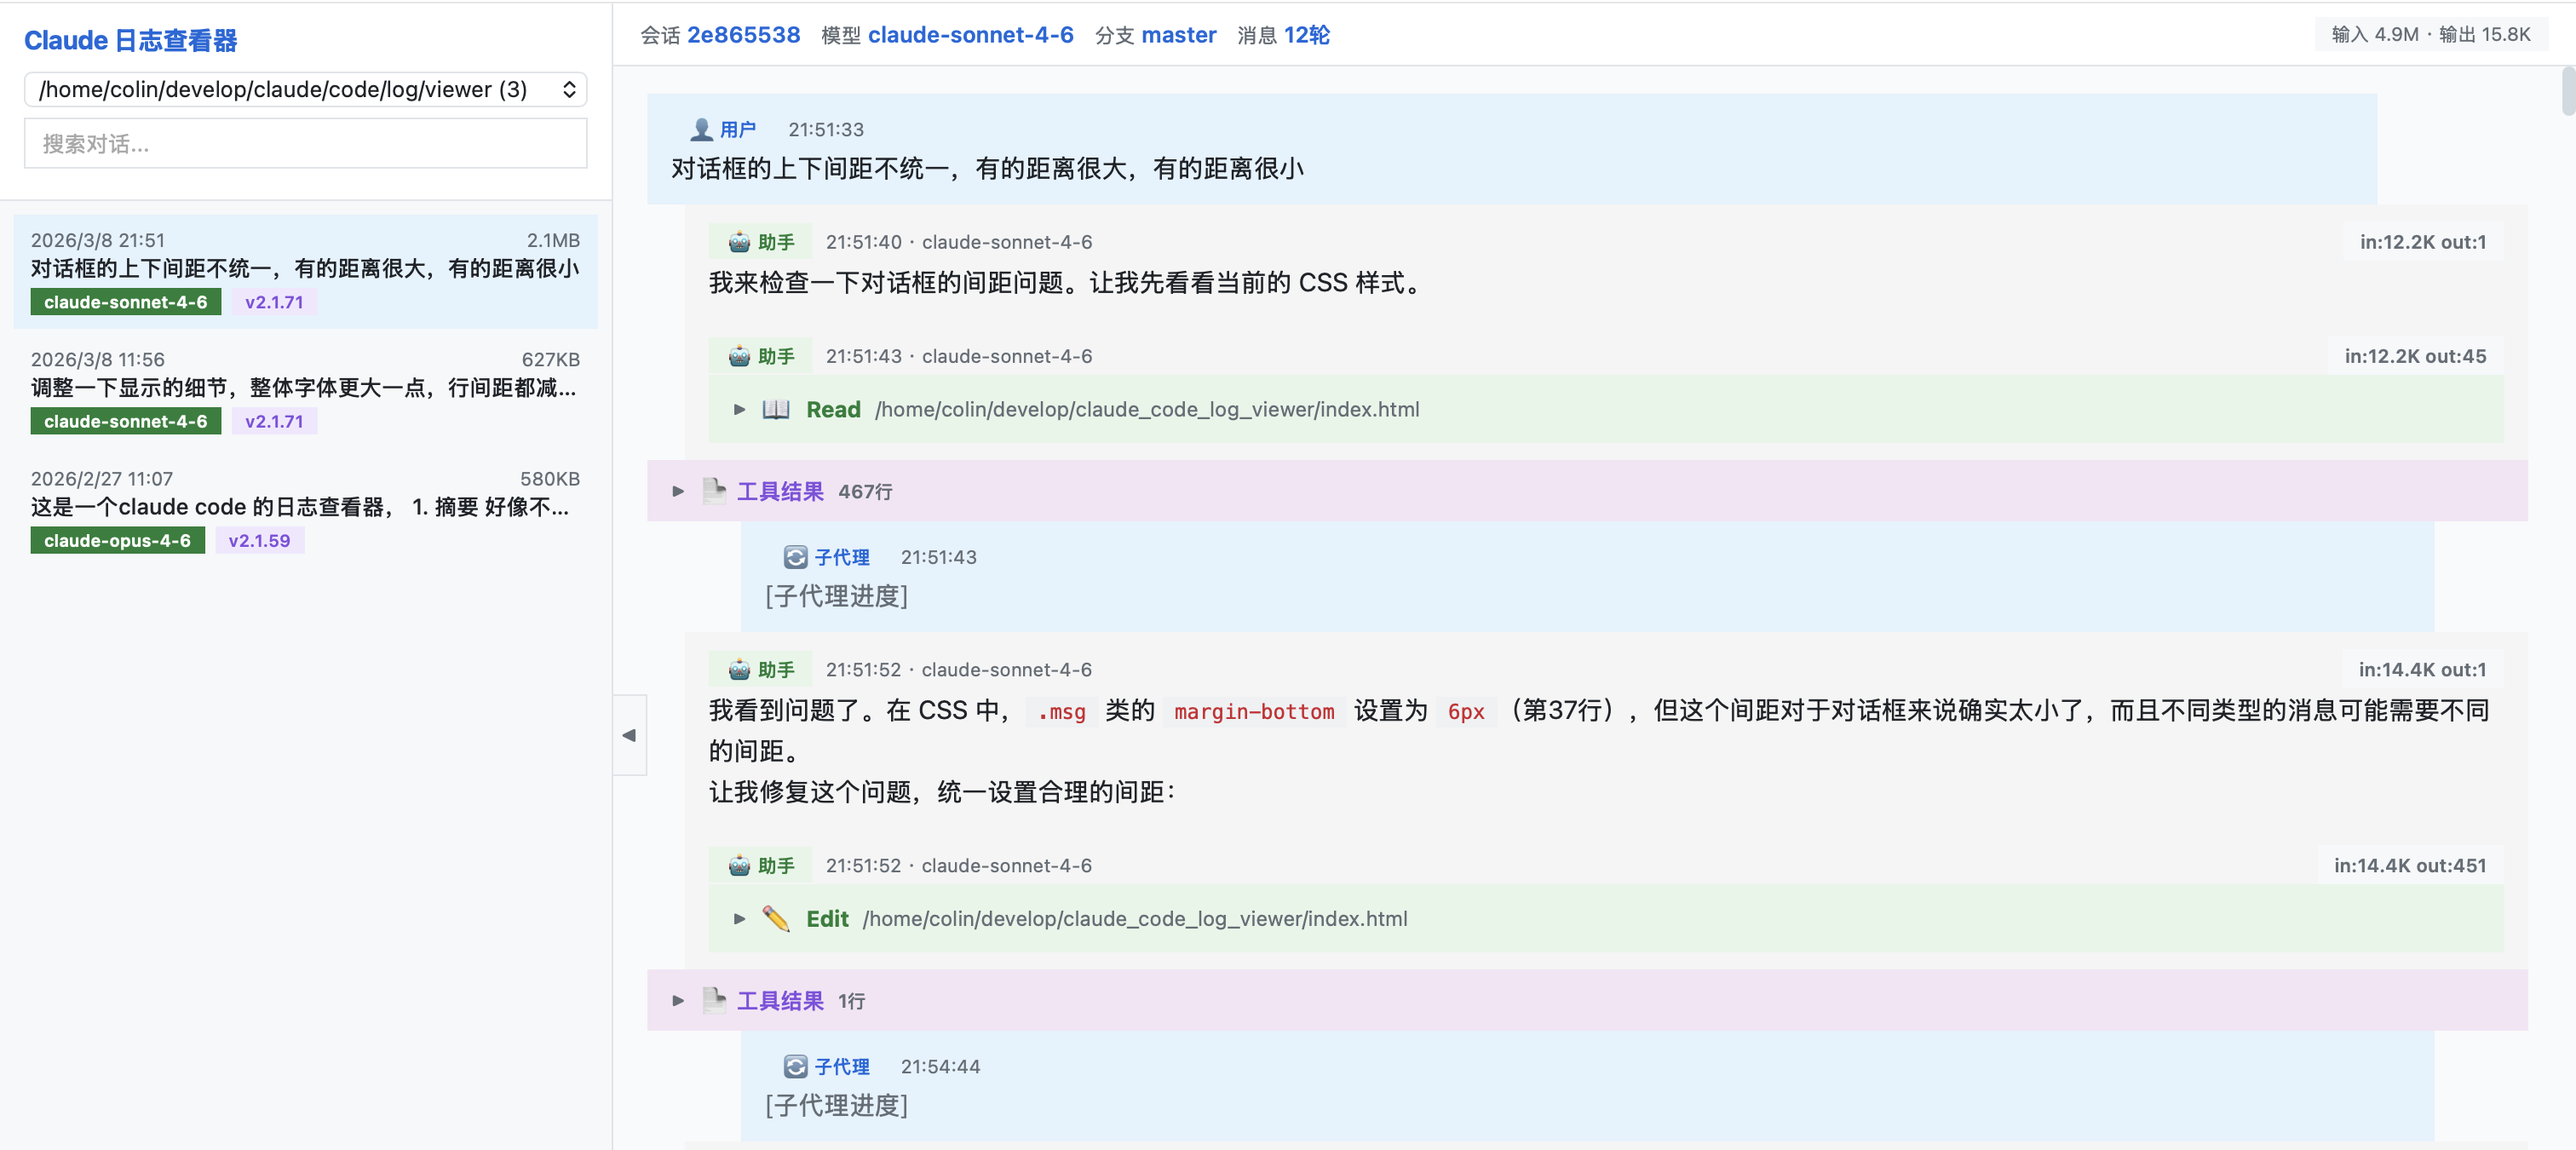
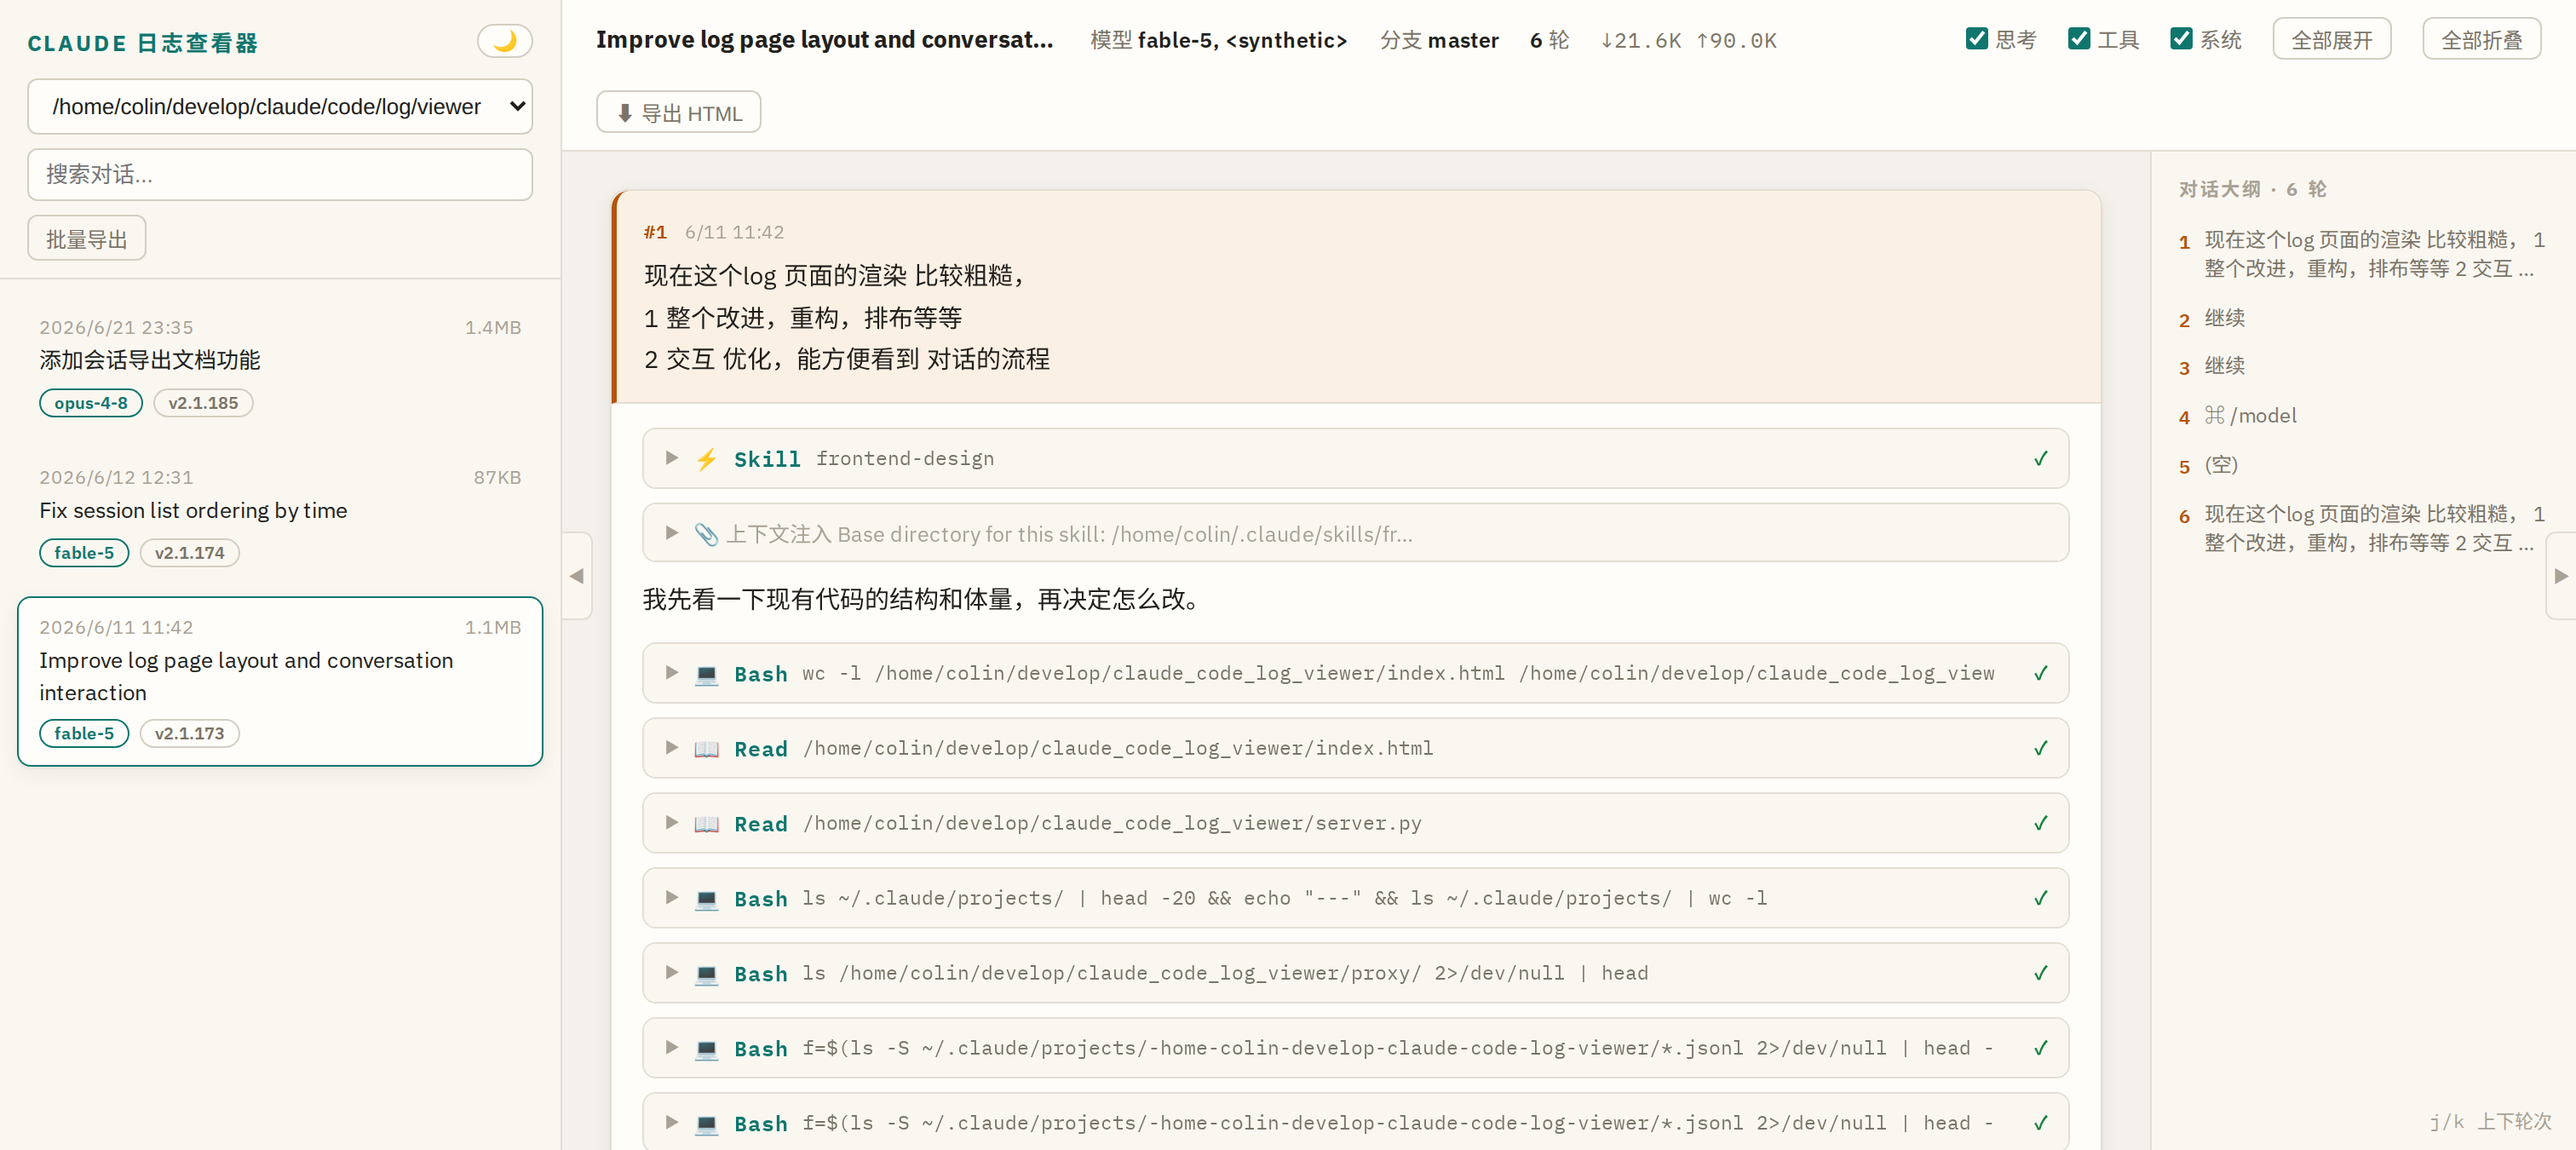
Update readme.

diff --git a/README.md b/README.md
@@ -1,30 +1,115 @@
-# Claude Code 日志查看器
+# Claude Code Log Viewer · Claude Code 日志查看器
 
-可视化分析 Claude Code 对话日志的本地 Web 工具。
+> A zero-dependency local web tool to browse, read, and export your Claude Code conversation logs.
+>
+> 一个零依赖的本地 Web 工具，用于浏览、阅读并导出 Claude Code 的对话日志。
 
-![alt text](image.png)
+**English** · [中文说明](#中文说明)
 
-## 启动
+![screenshot](image.png)
+
+---
+
+## English
+
+### Overview
+
+Claude Code stores every conversation as a `.jsonl` file under `~/.claude/projects/`. Those files are great for machines and painful for humans. This tool reads them in place and turns each session into a clean, turn-by-turn reading view in your browser — and lets you **export any session (or a batch of them) as a self-contained HTML file you can read offline forever**.
+
+No build step, no package manager, no database. Just Python 3 and a single HTML file.
+
+### Features
+
+- **Auto-discovery** — scans every project under `~/.claude/projects/` and lists its sessions.
+- **Session list** — reverse-chronological, showing date, size, model, and CLI version; instant search across title, preview, filename, and model.
+- **Turn-based reading view** — every real user prompt starts a turn card; the assistant's replies, thinking, tool calls, system events, and summaries are grouped beneath it.
+- **Everything is inspectable** — thinking blocks, tool calls paired with their results, and long outputs are collapsible. Bash renders terminal-style, JSON is colorized, Markdown is rich-rendered, and code is syntax-highlighted.
+- **Large tool outputs** — `persisted-output` results load their full content on demand.
+- **Navigation** — an outline panel with click-to-jump, scroll-spy highlighting, and `j` / `k` keyboard movement.
+- **Session metadata** — model(s), Git branch, turn count, and token usage in the header.
+- **Light / dark theme**, remembered across visits.
+- **Export to offline HTML** — single session or batch ZIP (see below).
+
+### Quick Start
 
 ```bash
-cd log-viewer
-python3 server.py        # 默认端口 8899
-python3 server.py 9000   # 自定义端口
+python3 server.py          # default port 8999
+python3 server.py 9000     # custom port
 ```
 
-浏览器打开 `http://localhost:8899`
+Then open **http://localhost:8999** and pick a conversation from the sidebar.
 
-## 功能
+### Export — offline & self-contained
 
-- 自动扫描 `~/.claude/projects/` 下所有项目的对话日志
-- 侧边栏按时间倒序列出对话，显示日期、大小、模型、版本
-- 支持按关键词搜索对话内容、文件名、模型名
-- 对话详情展示：用户消息（蓝色）、助手回复（白色）、摘要（黄色）
-- 思考过程、工具调用、执行结果均可折叠/展开
-- Bash 命令以终端风格渲染，JSON 彩色高亮，Markdown 富文本渲染
-- 大文件工具结果（persisted-output）支持点击按钮异步加载完整内容
-- 顶部显示会话元数据：模型、Git 分支、对话轮数、Token 用量
+Both export paths produce HTML that opens with **no internet and no this-tool**: all CSS, the small interaction scripts (collapse / theme / outline), and even large *persisted* tool outputs are inlined. There are **zero CDN references** in the output.
 
-## 依赖
+- **Single conversation → one HTML file.** Open a session and click **"⬇ 导出 HTML"** in the header. You get one `.html` named after the conversation title.
+- **Batch → a ZIP of HTML files.** Click **"批量导出"** in the sidebar to enter selection mode, tick the sessions you want (or **"全选"** to select all), then **"导出选中"** to download a single ZIP — one offline HTML per session. The ZIP is assembled in pure JavaScript, so this stays dependency-free too.
 
-仅需 Python 3，无第三方依赖。前端库通过 CDN 加载（marked.js、highlight.js）。
+### How It Works
+
+- **`server.py`** — a tiny `http.server` REST API over `~/.claude/projects/`: list projects, list a project's sessions (with previews), return a session's entries, and lazily serve persisted tool-result files. Python 3 standard library only; includes basic path-traversal guards.
+- **`index.html`** — a single-file SPA. A turn-based renderer groups the flat JSONL entries into turn cards. Markdown is rendered with marked.js and code highlighted with highlight.js (loaded from a CDN for the live viewer). Exports are pre-rendered to static HTML, so the exported files need neither library nor a network connection.
+
+### Requirements
+
+- **Python 3** — standard library only, nothing to `pip install`.
+- The **live viewer** loads marked.js and highlight.js from a CDN; **exported HTML files are fully self-contained** and work offline.
+
+### Bundled: API proxy (optional)
+
+The `proxy/` directory is a separate, optional tool — a transparent local API proxy for Claude Code that logs every request/response to JSONL (with its own log viewer). See [`proxy/README.md`](proxy/README.md).
+
+---
+
+## 中文说明
+
+[English](#english) · **中文**
+
+### 简介
+
+Claude Code 会把每一次对话以 `.jsonl` 文件的形式存放在 `~/.claude/projects/` 下。这些文件对机器友好，对人却很难读。本工具就地读取它们，把每个会话还原成浏览器里清爽的、按轮次阅读的视图，并且可以**把任意会话（或一批会话）导出成自包含的 HTML，永久离线阅读**。
+
+无需构建、无需包管理器、无需数据库——只要 Python 3 和一个 HTML 文件。
+
+### 功能
+
+- **自动发现**——扫描 `~/.claude/projects/` 下的所有项目并列出其会话。
+- **会话列表**——按时间倒序，显示日期、大小、模型、CLI 版本；支持对标题、预览、文件名、模型名的即时搜索。
+- **按轮次阅读**——每一条真实的用户提问开启一张轮次卡片，助手的回复、思考、工具调用、系统事件、摘要都归在它下面。
+- **一切可查**——思考块、工具调用与其结果的配对、超长输出都可折叠展开；Bash 以终端风格渲染，JSON 彩色高亮，Markdown 富文本渲染，代码语法高亮。
+- **超大工具输出**——`persisted-output` 结果可按需点击加载完整内容。
+- **导航**——大纲面板可点击跳转、滚动联动高亮，`j` / `k` 键盘上下切换轮次。
+- **会话元信息**——头部显示模型、Git 分支、对话轮数、Token 用量。
+- **明暗主题**——并跨次访问记忆。
+- **导出为离线 HTML**——单会话或批量 ZIP（见下）。
+
+### 启动
+
+```bash
+python3 server.py          # 默认端口 8999
+python3 server.py 9000     # 自定义端口
+```
+
+然后浏览器打开 **http://localhost:8999**，从左侧选择一个对话。
+
+### 导出——离线、自包含
+
+两种导出方式产出的 HTML 都能在**不联网、也不依赖本工具**的情况下打开：所有样式、必要的交互脚本（折叠 / 主题 / 大纲），乃至超大的*持久化*工具输出，全部内联进文件，产出里**没有任何 CDN 引用**。
+
+- **单会话 → 一个 HTML 文件**：打开会话后点头部的 **「⬇ 导出 HTML」**，得到一个以会话标题命名的 `.html`。
+- **批量 → 一个 ZIP**：点侧栏的 **「批量导出」** 进入勾选模式，勾选想要的会话（或 **「全选」**），再点 **「导出选中」** 下载一个 ZIP——每个会话一个离线 HTML。ZIP 由纯 JavaScript 生成，因此同样零依赖。
+
+### 工作原理
+
+- **`server.py`**——基于 `http.server` 的极简 REST API，读取 `~/.claude/projects/`：列项目、列会话（含预览）、返回某会话的全部条目、按需提供持久化的工具结果文件。仅用 Python 3 标准库，并带有基础的路径穿越防护。
+- **`index.html`**——单文件 SPA。按轮次的渲染器把扁平的 JSONL 条目组装成轮次卡片；Markdown 用 marked.js 渲染、代码用 highlight.js 高亮（在线查看时从 CDN 加载）。导出时内容已预渲染为静态 HTML，因此导出文件既不需要这些库、也不需要联网。
+
+### 依赖
+
+- **Python 3**——仅标准库，无需 `pip install`。
+- **在线查看器**从 CDN 加载 marked.js 与 highlight.js；**导出的 HTML 完全自包含**，可离线使用。
+
+### 附带：API 代理（可选）
+
+`proxy/` 目录是一个独立、可选的工具——给 Claude Code 用的透明本地 API 代理，会把每次请求/响应记录为 JSONL（并自带日志查看器）。详见 [`proxy/README.md`](proxy/README.md)。
